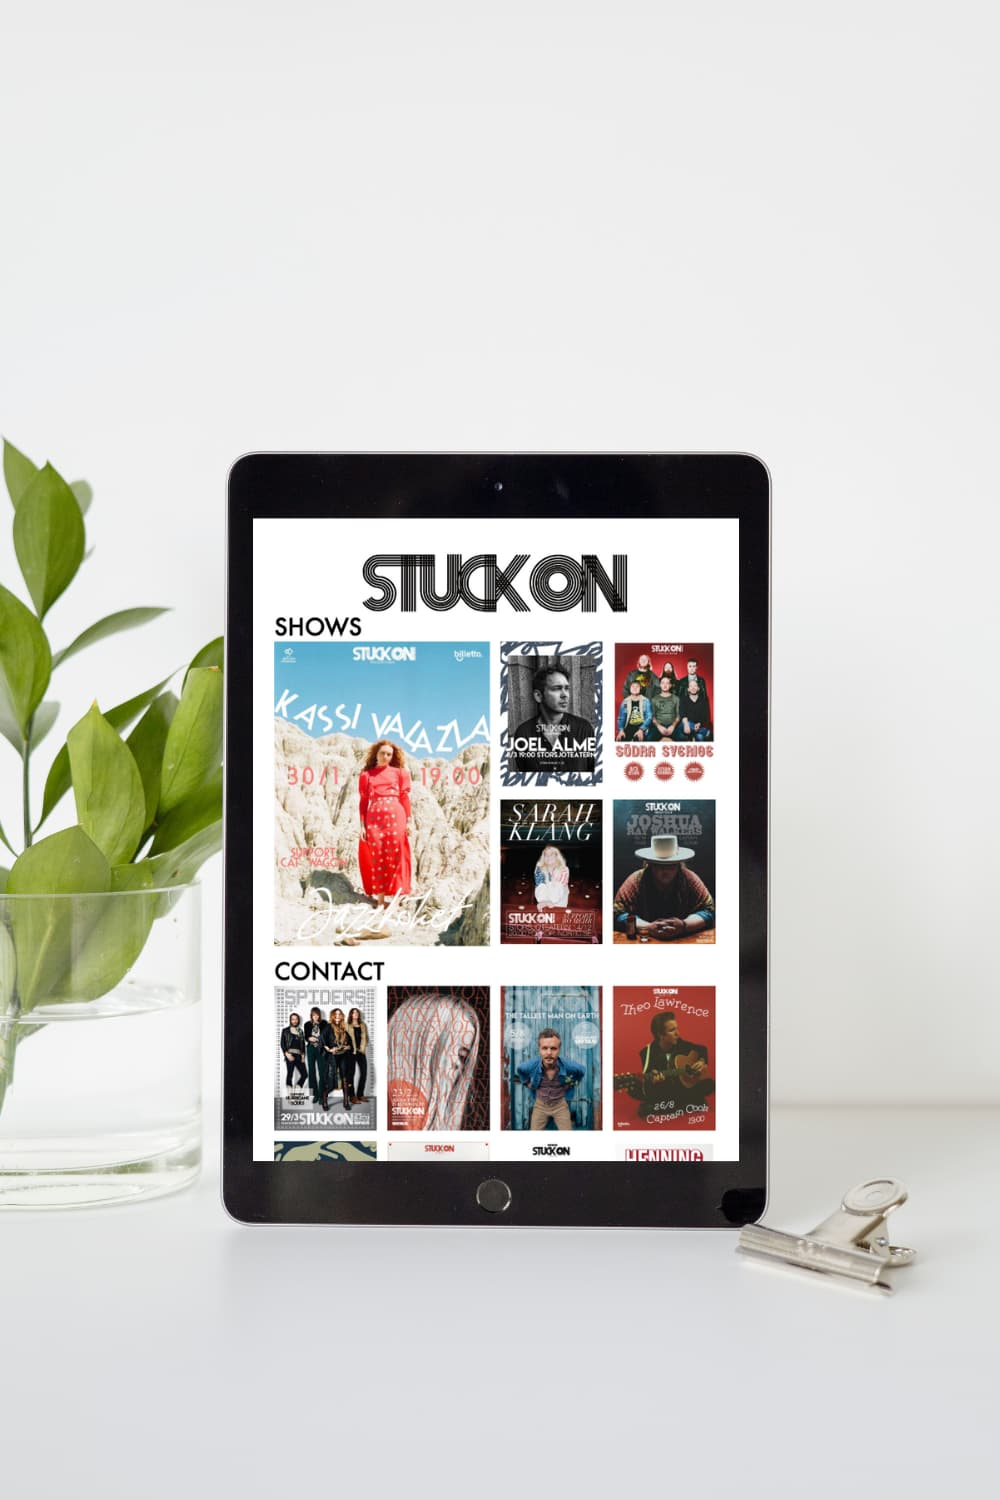
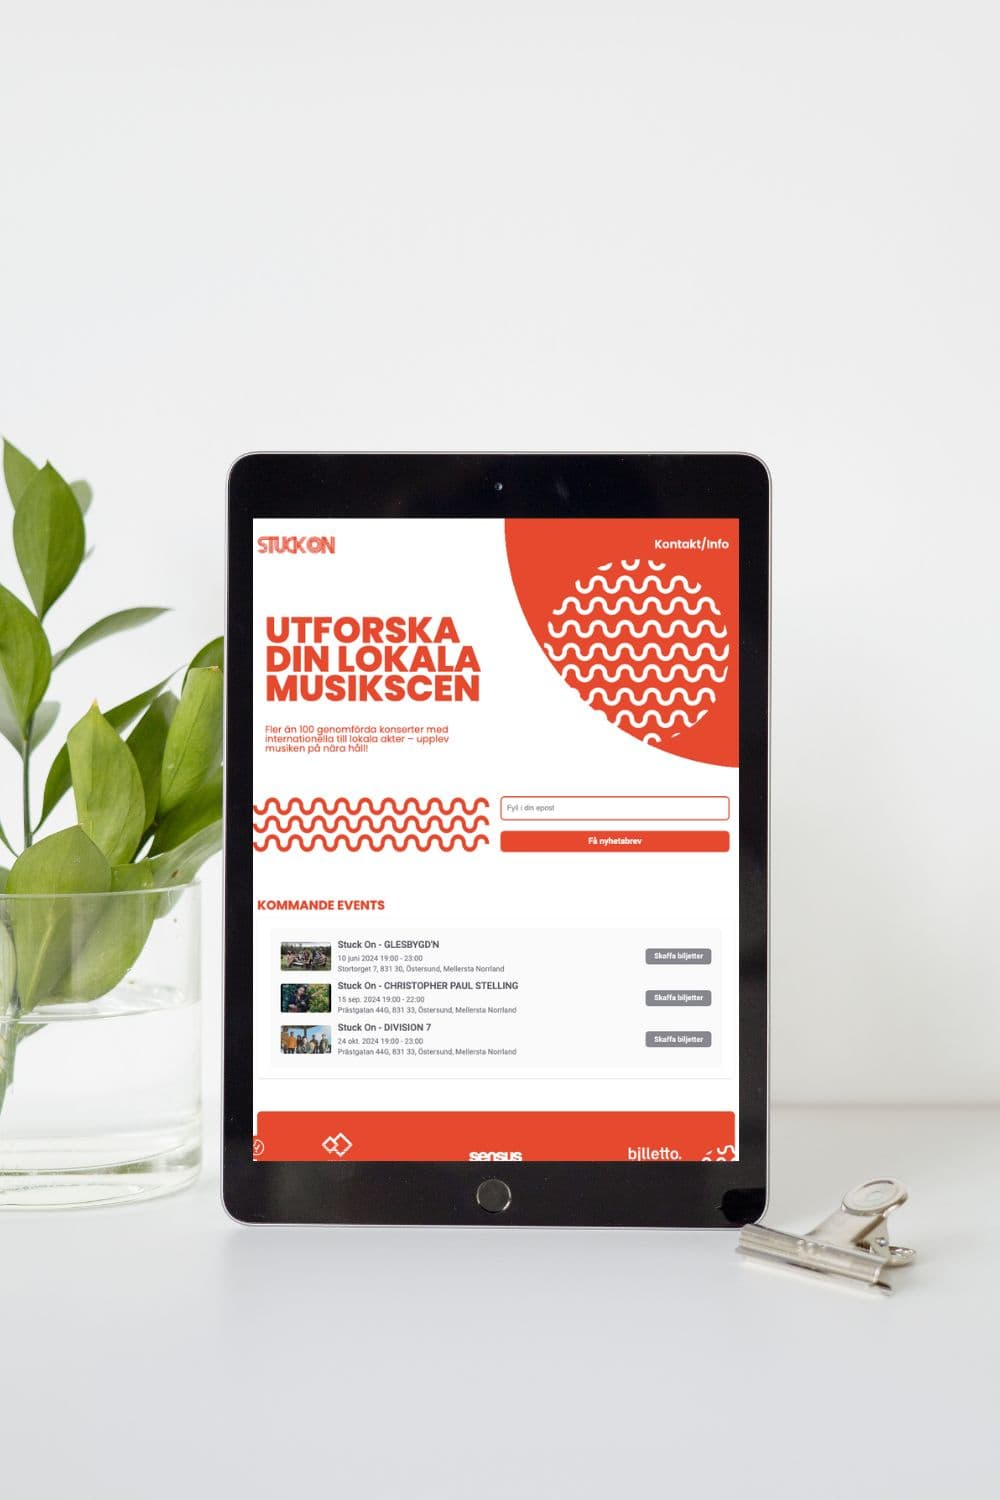
added project

Changed region(s): [[0.248, 0.3373, 0.744, 0.7973], [0.248, 0.3373, 0.341, 0.368]]

diff --git a/src/Components/Sections/Sec3FeaturedProjects.js b/src/Components/Sections/Sec3FeaturedProjects.js
@@ -24,6 +24,7 @@ import LabyrinthIMG from '../Images/LabyrinthIMG.jpg';
 import ExpressApiIMG from '../Images/ExpressApiIMG.jpg';
 import AuthIMG from '../Images/AuthIMG.jpg';
 import AiChatbotIMG from '../Images/AiChatbotIMG.jpg';
+import StuckonIMG from '../Images/StuckonIMG.jpg';
 
 // /////// SECTION-SPECIFIC STRUCTURE STYLING ///////// //
 
@@ -113,6 +114,38 @@ export const Sec3FeaturedProjects = () => {
     <Section>
       <SectionTitle>Featured Projects</SectionTitle>
       <AllProjectsStructure>
+        {/* Stuckon.se PROJECT /////////////////////////////////////////////// */}
+
+        <ProjectMainStructure>
+          <ProjectImage src={StuckonIMG} alt="Stuckon.se" />
+          <TabletStructure>
+            <ProjectTextStructure>
+              <ProjectTitle>UI Design + Vue build</ProjectTitle>
+              <ParagraphText>
+        This project started whith a Figma design I made during a UI-course at Technigo Stockholm.
+        Its a site for Stuck On a music organizer in my hometown. I decided to make this site in Vue
+        to get more familiar whit the framework. Also made the posters in the carousel!
+              </ParagraphText>
+            </ProjectTextStructure>
+            <BlackBackgroundAndProjectButtonStucture>
+              <BlackBackgroundStructure>
+                <BlackBackgroundText>Vue</BlackBackgroundText>
+                <BlackBackgroundText>Figma</BlackBackgroundText>
+                <BlackBackgroundText>UI-design</BlackBackgroundText>
+                <BlackBackgroundText>Newsletter</BlackBackgroundText>
+              </BlackBackgroundStructure>
+              <ProjectButtonStructure>
+                <a href="https:/stuckon.se/" target="_blank" title="Link to the deployed Stuckon.se" rel="noreferrer">
+                  <BlueButton>
+                    <svg width="31" height="31" viewBox="0 0 48 48" fill="currentcolor" xmlns="http://www.w3.org/2000/svg">
+                      <path d="M24.495 39.99C32.97 39.99 39.99 32.985 39.99 24.495C39.99 16.02 32.97 9 24.48 9C16.005 9 9 16.02 9 24.495C9 32.985 16.02 39.99 24.495 39.99ZM15.465 15.06C16.965 13.635 18.78 12.54 20.805 11.94C19.74 13.005 18.84 14.505 18.165 16.335C17.115 16.005 16.215 15.57 15.465 15.06ZM28.2001 11.955C30.21 12.555 32.025 13.635 33.51 15.06C32.775 15.585 31.8751 16.005 30.825 16.35C30.15 14.505 29.25 13.005 28.2001 11.955ZM25.545 12.435C26.79 13.035 27.93 14.655 28.74 16.86C27.75 17.04 26.685 17.145 25.545 17.19V12.435ZM20.25 16.86C21.075 14.655 22.2001 13.035 23.445 12.435V17.19C22.305 17.145 21.24 17.04 20.25 16.86ZM11.445 23.4451C11.655 20.895 12.615 18.54 14.085 16.605C15 17.28 16.185 17.865 17.565 18.3C17.175 19.86 16.92 21.5999 16.845 23.4451H11.445ZM32.145 23.4451C32.07 21.5999 31.815 19.86 31.425 18.3C32.805 17.865 33.99 17.295 34.89 16.605C36.375 18.54 37.335 20.895 37.545 23.4451H32.145ZM18.99 23.4451C19.065 21.81 19.29 20.25 19.635 18.84C20.835 19.08 22.1099 19.23 23.445 19.29V23.4451H18.99ZM25.545 23.4451V19.29C26.88 19.23 28.155 19.08 29.355 18.84C29.7 20.25 29.925 21.81 30 23.4451H25.545ZM11.445 25.545H16.845C16.92 27.42 17.175 29.175 17.565 30.75C16.2 31.185 15.03 31.755 14.13 32.43C12.63 30.4799 11.655 28.11 11.445 25.545ZM18.99 25.545H23.445V29.775C22.125 29.835 20.835 29.985 19.65 30.21C19.29 28.785 19.05 27.195 18.99 25.545ZM25.545 29.775V25.545H30C29.94 27.195 29.7 28.785 29.34 30.21C28.155 29.985 26.88 29.835 25.545 29.775ZM31.425 30.75C31.83 29.175 32.07 27.42 32.145 25.545H37.545C37.335 28.11 36.3601 30.4799 34.86 32.43C33.9601 31.755 32.79 31.185 31.425 30.75ZM25.545 31.875C26.6699 31.9199 27.735 32.025 28.71 32.205C27.9 34.365 26.775 35.97 25.545 36.555V31.875ZM20.28 32.205C21.255 32.025 22.32 31.9199 23.445 31.875V36.555C22.215 35.97 21.09 34.365 20.28 32.205ZM15.51 33.975C16.245 33.465 17.145 33.0451 18.18 32.715C18.855 34.515 19.74 35.985 20.775 37.035C18.795 36.435 16.995 35.3701 15.51 33.975ZM30.81 32.715C31.845 33.0451 32.745 33.465 33.4801 33.975C31.995 35.3701 30.1949 36.435 28.215 37.035C29.25 35.985 30.135 34.515 30.81 32.715Z" fill="currentcolor" />
+                    </svg>Live demo
+                  </BlueButton>
+                </a>
+              </ProjectButtonStructure>
+            </BlackBackgroundAndProjectButtonStucture>
+          </TabletStructure>
+        </ProjectMainStructure>
 
         {/* AI-Chatbot + Cookibanner PROJECT /////////////////////////////////////////////// */}
 
@@ -694,45 +727,6 @@ export const Sec3FeaturedProjects = () => {
                   </PinkButton>
                 </a>
                 <a href="https://genuine-empanada-53bcd2.netlify.app/" target="_blank" title="Link to deployed Business Site" rel="noreferrer">
-                  <BlueButton>
-                    <svg width="31" height="31" viewBox="0 0 48 48" fill="currentcolor" xmlns="http://www.w3.org/2000/svg">
-                      <path d="M24.495 39.99C32.97 39.99 39.99 32.985 39.99 24.495C39.99 16.02 32.97 9 24.48 9C16.005 9 9 16.02 9 24.495C9 32.985 16.02 39.99 24.495 39.99ZM15.465 15.06C16.965 13.635 18.78 12.54 20.805 11.94C19.74 13.005 18.84 14.505 18.165 16.335C17.115 16.005 16.215 15.57 15.465 15.06ZM28.2001 11.955C30.21 12.555 32.025 13.635 33.51 15.06C32.775 15.585 31.8751 16.005 30.825 16.35C30.15 14.505 29.25 13.005 28.2001 11.955ZM25.545 12.435C26.79 13.035 27.93 14.655 28.74 16.86C27.75 17.04 26.685 17.145 25.545 17.19V12.435ZM20.25 16.86C21.075 14.655 22.2001 13.035 23.445 12.435V17.19C22.305 17.145 21.24 17.04 20.25 16.86ZM11.445 23.4451C11.655 20.895 12.615 18.54 14.085 16.605C15 17.28 16.185 17.865 17.565 18.3C17.175 19.86 16.92 21.5999 16.845 23.4451H11.445ZM32.145 23.4451C32.07 21.5999 31.815 19.86 31.425 18.3C32.805 17.865 33.99 17.295 34.89 16.605C36.375 18.54 37.335 20.895 37.545 23.4451H32.145ZM18.99 23.4451C19.065 21.81 19.29 20.25 19.635 18.84C20.835 19.08 22.1099 19.23 23.445 19.29V23.4451H18.99ZM25.545 23.4451V19.29C26.88 19.23 28.155 19.08 29.355 18.84C29.7 20.25 29.925 21.81 30 23.4451H25.545ZM11.445 25.545H16.845C16.92 27.42 17.175 29.175 17.565 30.75C16.2 31.185 15.03 31.755 14.13 32.43C12.63 30.4799 11.655 28.11 11.445 25.545ZM18.99 25.545H23.445V29.775C22.125 29.835 20.835 29.985 19.65 30.21C19.29 28.785 19.05 27.195 18.99 25.545ZM25.545 29.775V25.545H30C29.94 27.195 29.7 28.785 29.34 30.21C28.155 29.985 26.88 29.835 25.545 29.775ZM31.425 30.75C31.83 29.175 32.07 27.42 32.145 25.545H37.545C37.335 28.11 36.3601 30.4799 34.86 32.43C33.9601 31.755 32.79 31.185 31.425 30.75ZM25.545 31.875C26.6699 31.9199 27.735 32.025 28.71 32.205C27.9 34.365 26.775 35.97 25.545 36.555V31.875ZM20.28 32.205C21.255 32.025 22.32 31.9199 23.445 31.875V36.555C22.215 35.97 21.09 34.365 20.28 32.205ZM15.51 33.975C16.245 33.465 17.145 33.0451 18.18 32.715C18.855 34.515 19.74 35.985 20.775 37.035C18.795 36.435 16.995 35.3701 15.51 33.975ZM30.81 32.715C31.845 33.0451 32.745 33.465 33.4801 33.975C31.995 35.3701 30.1949 36.435 28.215 37.035C29.25 35.985 30.135 34.515 30.81 32.715Z" fill="currentcolor" />
-                    </svg>Live demo
-                  </BlueButton>
-                </a>
-              </ProjectButtonStructure>
-            </BlackBackgroundAndProjectButtonStucture>
-          </TabletStructure>
-        </ProjectMainStructure>
-
-        {/* STUCKON LIVE MUSIC ////////////////////////////////////////////////////////////// */}
-
-        <ProjectMainStructure>
-          <ProjectImage src={StuckOnIMG} alt="Stuck on live project" />
-          <TabletStructure>
-            <ProjectTextStructure>
-              <ProjectTitle>Stuck On Live</ProjectTitle>
-              <ParagraphText>
-        This is a private project that Im working on for the local live music scene i Östersund.
-        I have also made the grapics all the posters.
-              </ParagraphText>
-            </ProjectTextStructure>
-            <BlackBackgroundAndProjectButtonStucture>
-              <BlackBackgroundStructure>
-                <BlackBackgroundText>Redux</BlackBackgroundText>
-                <BlackBackgroundText>CSS3</BlackBackgroundText>
-                <BlackBackgroundText>React</BlackBackgroundText>
-                <BlackBackgroundText>Node</BlackBackgroundText>
-              </BlackBackgroundStructure>
-              <ProjectButtonStructure>
-                <a href="https://github.com/PerErikAndreas/Stuck-On" target="_blank" title="Link to Stuck on live project on GitHub" rel="noreferrer">
-                  <PinkButton>
-                    <svg width="32" height="32" viewBox="0 0 32 32" fill="currentcolor" xmlns="http://www.w3.org/2000/svg">
-                      <path d="M12.1094 22.6562C12.1094 22.5625 12.0156 22.4688 11.875 22.4688C11.7344 22.4688 11.6406 22.5625 11.6406 22.6562C11.6406 22.75 11.7344 22.8438 11.875 22.7969C12.0156 22.7969 12.1094 22.75 12.1094 22.6562ZM10.6562 22.4219C10.6562 22.5156 10.75 22.6562 10.8906 22.6562C10.9844 22.7031 11.125 22.6562 11.1719 22.5625C11.1719 22.4688 11.125 22.375 10.9844 22.3281C10.8438 22.2812 10.7031 22.3281 10.6562 22.4219ZM12.7656 22.375C12.625 22.375 12.5312 22.4688 12.5312 22.6094C12.5312 22.7031 12.6719 22.75 12.8125 22.7031C12.9531 22.6562 13.0469 22.6094 13 22.5156C13 22.4219 12.8594 22.3281 12.7656 22.375ZM15.8125 4.375C9.34375 4.375 4.375 9.34375 4.375 15.8125C4.375 21.0156 7.60938 25.4688 12.2969 27.0625C12.9062 27.1562 13.0938 26.7812 13.0938 26.5C13.0938 26.1719 13.0938 24.5781 13.0938 23.5938C13.0938 23.5938 9.8125 24.2969 9.10938 22.1875C9.10938 22.1875 8.59375 20.8281 7.84375 20.5C7.84375 20.5 6.76562 19.75 7.89062 19.75C7.89062 19.75 9.0625 19.8438 9.71875 20.9688C10.75 22.7969 12.4375 22.2812 13.1406 21.9531C13.2344 21.2031 13.5156 20.6875 13.8906 20.3594C11.2656 20.0781 8.59375 19.7031 8.59375 15.2031C8.59375 13.8906 8.96875 13.2812 9.71875 12.4375C9.57812 12.1094 9.20312 10.8906 9.85938 9.25C10.7969 8.96875 13.0938 10.5156 13.0938 10.5156C14.0312 10.2344 15.0156 10.1406 16 10.1406C17.0312 10.1406 18.0156 10.2344 18.9531 10.5156C18.9531 10.5156 21.2031 8.92188 22.1875 9.25C22.8438 10.8906 22.4219 12.1094 22.3281 12.4375C23.0781 13.2812 23.5469 13.8906 23.5469 15.2031C23.5469 19.7031 20.7812 20.0781 18.1562 20.3594C18.5781 20.7344 18.9531 21.4375 18.9531 22.5625C18.9531 24.1094 18.9062 26.0781 18.9062 26.4531C18.9062 26.7812 19.1406 27.1562 19.75 27.0156C24.4375 25.4688 27.625 21.0156 27.625 15.8125C27.625 9.34375 22.3281 4.375 15.8125 4.375ZM8.92188 20.5469C8.82812 20.5938 8.875 20.7344 8.92188 20.8281C9.01562 20.875 9.10938 20.9219 9.20312 20.875C9.25 20.8281 9.25 20.6875 9.15625 20.5938C9.0625 20.5469 8.96875 20.5 8.92188 20.5469ZM8.40625 20.1719C8.35938 20.2656 8.40625 20.3125 8.5 20.3594C8.59375 20.4062 8.6875 20.4062 8.73438 20.3125C8.73438 20.2656 8.6875 20.2188 8.59375 20.1719C8.5 20.125 8.45312 20.125 8.40625 20.1719ZM9.90625 21.8594C9.85938 21.9062 9.85938 22.0469 10 22.1406C10.0938 22.2344 10.2344 22.2812 10.2812 22.1875C10.3281 22.1406 10.3281 22 10.2344 21.9062C10.1406 21.8125 10 21.7656 9.90625 21.8594ZM9.39062 21.1562C9.29688 21.2031 9.29688 21.3438 9.39062 21.4375C9.48438 21.5312 9.57812 21.5781 9.67188 21.5312C9.71875 21.4844 9.71875 21.3438 9.67188 21.25C9.57812 21.1562 9.48438 21.1094 9.39062 21.1562Z" fill="currentcolor" />
-                    </svg>View the code
-                  </PinkButton>
-                </a>
-                <a href="https://frabjous-madeleine-4ca8eb.netlify.app/" target="_blank" title="Link to deployed Stuck on live project" rel="noreferrer">
                   <BlueButton>
                     <svg width="31" height="31" viewBox="0 0 48 48" fill="currentcolor" xmlns="http://www.w3.org/2000/svg">
                       <path d="M24.495 39.99C32.97 39.99 39.99 32.985 39.99 24.495C39.99 16.02 32.97 9 24.48 9C16.005 9 9 16.02 9 24.495C9 32.985 16.02 39.99 24.495 39.99ZM15.465 15.06C16.965 13.635 18.78 12.54 20.805 11.94C19.74 13.005 18.84 14.505 18.165 16.335C17.115 16.005 16.215 15.57 15.465 15.06ZM28.2001 11.955C30.21 12.555 32.025 13.635 33.51 15.06C32.775 15.585 31.8751 16.005 30.825 16.35C30.15 14.505 29.25 13.005 28.2001 11.955ZM25.545 12.435C26.79 13.035 27.93 14.655 28.74 16.86C27.75 17.04 26.685 17.145 25.545 17.19V12.435ZM20.25 16.86C21.075 14.655 22.2001 13.035 23.445 12.435V17.19C22.305 17.145 21.24 17.04 20.25 16.86ZM11.445 23.4451C11.655 20.895 12.615 18.54 14.085 16.605C15 17.28 16.185 17.865 17.565 18.3C17.175 19.86 16.92 21.5999 16.845 23.4451H11.445ZM32.145 23.4451C32.07 21.5999 31.815 19.86 31.425 18.3C32.805 17.865 33.99 17.295 34.89 16.605C36.375 18.54 37.335 20.895 37.545 23.4451H32.145ZM18.99 23.4451C19.065 21.81 19.29 20.25 19.635 18.84C20.835 19.08 22.1099 19.23 23.445 19.29V23.4451H18.99ZM25.545 23.4451V19.29C26.88 19.23 28.155 19.08 29.355 18.84C29.7 20.25 29.925 21.81 30 23.4451H25.545ZM11.445 25.545H16.845C16.92 27.42 17.175 29.175 17.565 30.75C16.2 31.185 15.03 31.755 14.13 32.43C12.63 30.4799 11.655 28.11 11.445 25.545ZM18.99 25.545H23.445V29.775C22.125 29.835 20.835 29.985 19.65 30.21C19.29 28.785 19.05 27.195 18.99 25.545ZM25.545 29.775V25.545H30C29.94 27.195 29.7 28.785 29.34 30.21C28.155 29.985 26.88 29.835 25.545 29.775ZM31.425 30.75C31.83 29.175 32.07 27.42 32.145 25.545H37.545C37.335 28.11 36.3601 30.4799 34.86 32.43C33.9601 31.755 32.79 31.185 31.425 30.75ZM25.545 31.875C26.6699 31.9199 27.735 32.025 28.71 32.205C27.9 34.365 26.775 35.97 25.545 36.555V31.875ZM20.28 32.205C21.255 32.025 22.32 31.9199 23.445 31.875V36.555C22.215 35.97 21.09 34.365 20.28 32.205ZM15.51 33.975C16.245 33.465 17.145 33.0451 18.18 32.715C18.855 34.515 19.74 35.985 20.775 37.035C18.795 36.435 16.995 35.3701 15.51 33.975ZM30.81 32.715C31.845 33.0451 32.745 33.465 33.4801 33.975C31.995 35.3701 30.1949 36.435 28.215 37.035C29.25 35.985 30.135 34.515 30.81 32.715Z" fill="currentcolor" />
